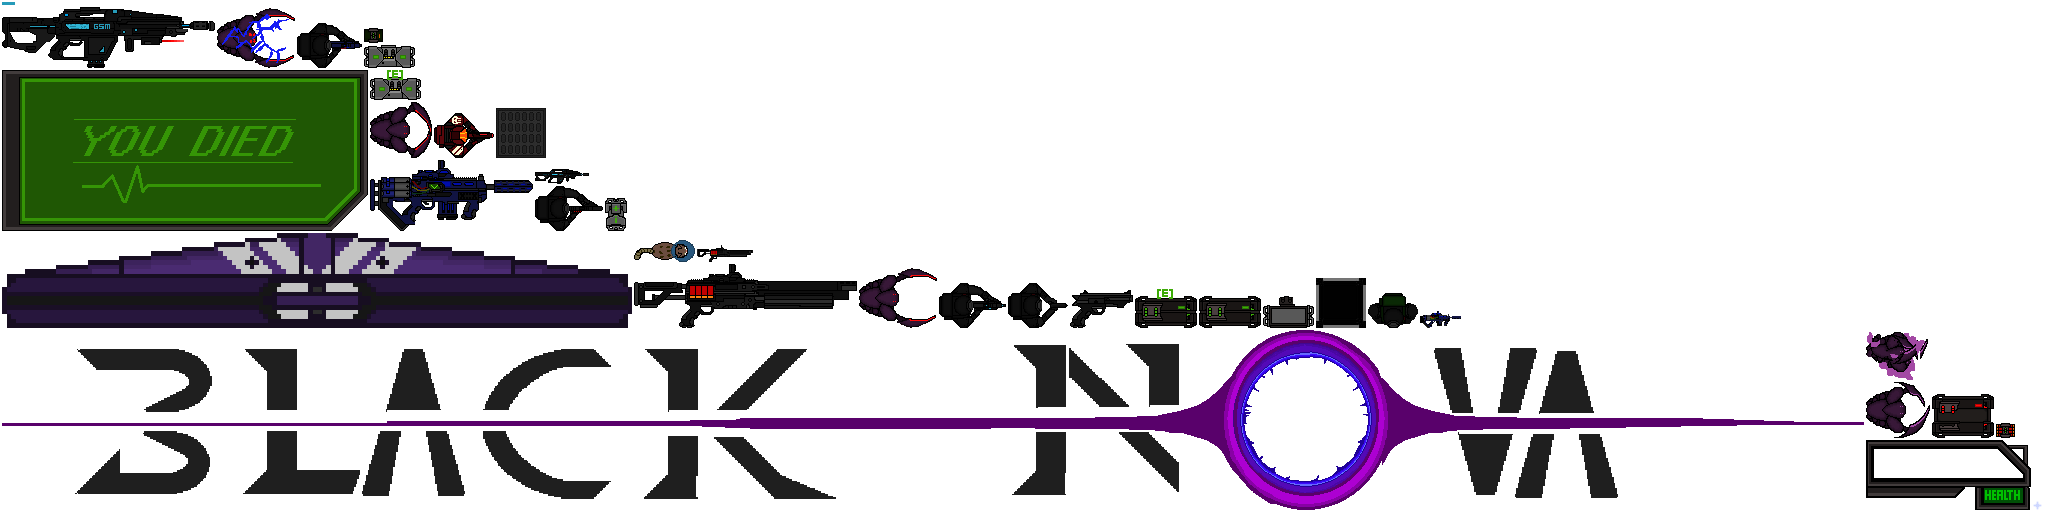
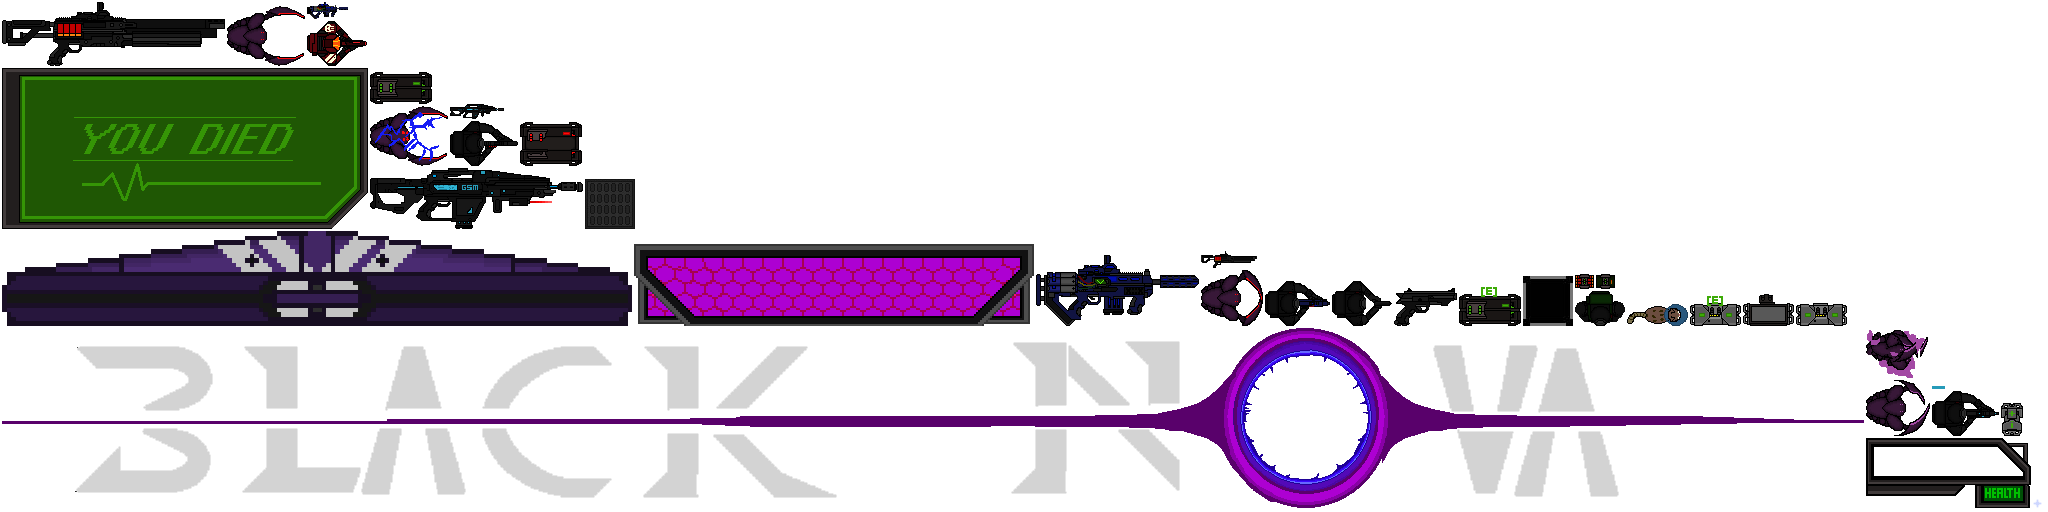
Cool menu now has custom font
Made a cool font and took little option boxes and got that working it looks pretty good if I do say so myself

Changed region(s): [[0.0, 0.4688, 1.0, 1.0], [0.0, 0.0, 0.3125, 0.5]]

diff --git a/core/src/com/ryanbuxton/blacknova/screens/MainMenu.java b/core/src/com/ryanbuxton/blacknova/screens/MainMenu.java
@@ -13,7 +13,7 @@ import com.ryanbuxton.blacknova.main.Main;
 public class MainMenu implements Screen{
 	private final Main game;
 	private OrthographicCamera cam;
-	private Sprite title, header, footer;
+	private Sprite title, header, footer, optionPlay, optionSettings, optionCredits;
 	private Star[] stars;
 	
 	public MainMenu(final Main game) {
@@ -25,11 +25,21 @@ public class MainMenu implements Screen{
 		Sprite s = game.atlas.createSprite("star");
 		footer = game.atlas.createSprite("option_footer");
 		header = game.atlas.createSprite("option_footer");
+		optionPlay = game.atlas.createSprite("menu_option");
+		optionSettings = game.atlas.createSprite("menu_option");
+		optionCredits = game.atlas.createSprite("menu_option");
 		
 		title.setPosition(0, Gdx.graphics.getHeight() - title.getHeight());
 		header.setPosition((Gdx.graphics.getWidth()/2) - (header.getWidth()/2), Gdx.graphics.getHeight() - title.getHeight() - header.getHeight());
+		
+		
+		optionPlay.setPosition((Gdx.graphics.getWidth()/2) - (optionPlay.getWidth()/2), header.getY() - (optionPlay.getHeight()));
+		optionSettings.setPosition((Gdx.graphics.getWidth()/2) - (optionSettings.getWidth()/2), header.getY() - (optionSettings.getHeight() * 3));
+		optionCredits.setPosition((Gdx.graphics.getWidth()/2) - (optionCredits.getWidth()/2), header.getY() - (optionCredits.getHeight() * 5));
+		
+		
 		footer.setRotation(180);
-		footer.setPosition((Gdx.graphics.getWidth()/2) - (header.getWidth()/2), footer.getHeight());
+		footer.setPosition((Gdx.graphics.getWidth()/2) - (header.getWidth()/2), header.getY() - (optionCredits.getHeight() * 5) - footer.getHeight());
 		
 		stars = new Star[25];
 		for(int i = 0; i < 25; i ++) {
@@ -52,6 +62,14 @@ public class MainMenu implements Screen{
 		header.draw(game.batch);
 		footer.draw(game.batch);
 		title.draw(game.batch);
+		optionPlay.draw(game.batch);
+		optionSettings.draw(game.batch);
+		optionCredits.draw(game.batch);
+		
+		game.titleFont.draw(game.batch, "PLAY", 0, optionPlay.getY() + 55, Gdx.graphics.getWidth(), 1, false);
+		game.titleFont.draw(game.batch, "SETTINGS", 0, optionSettings.getY() + 55, Gdx.graphics.getWidth(), 1, false);
+		game.titleFont.draw(game.batch, "CREDITS", 0, optionCredits.getY() + 55, Gdx.graphics.getWidth(), 1, false);
+		
 		game.testFont.draw(game.batch, "ART AND CONCEPT BY JOSEPH AHN\nCODE BY RYAN BUXTON (RYANBUXTON.COM)\nVERSION " + game.ver, 0, game.testFont.getCapHeight()*5);
 		game.batch.end();
 		

diff --git a/core/src/com/ryanbuxton/blacknova/main/Main.java b/core/src/com/ryanbuxton/blacknova/main/Main.java
@@ -3,24 +3,41 @@ package com.ryanbuxton.blacknova.main;
 import com.badlogic.gdx.ApplicationAdapter;
 import com.badlogic.gdx.Game;
 import com.badlogic.gdx.Gdx;
+import com.badlogic.gdx.graphics.Color;
 import com.badlogic.gdx.graphics.GL20;
 import com.badlogic.gdx.graphics.Texture;
 import com.badlogic.gdx.graphics.g2d.BitmapFont;
 import com.badlogic.gdx.graphics.g2d.Sprite;
 import com.badlogic.gdx.graphics.g2d.SpriteBatch;
 import com.badlogic.gdx.graphics.g2d.TextureAtlas;
+import com.badlogic.gdx.graphics.g2d.freetype.FreeTypeFontGenerator;
+import com.badlogic.gdx.graphics.g2d.freetype.FreeTypeFontGenerator.FreeTypeFontParameter;
 import com.ryanbuxton.blacknova.screens.MainMenu;
 
 public class Main extends Game {
 	public SpriteBatch batch;
 	public TextureAtlas atlas;
-	public BitmapFont testFont;
+	public BitmapFont testFont, titleFont;
 	public String ver = "0.0.1";
 
 	public void create() {
 		batch = new SpriteBatch();
 		atlas = new TextureAtlas("blacknova.atlas");
-		testFont = new BitmapFont();
+		
+		//fonts
+		FreeTypeFontGenerator gen = new FreeTypeFontGenerator(Gdx.files.internal("blacknova_font.ttf"));
+		FreeTypeFontParameter par = new FreeTypeFontParameter();
+		//testFont is a small font for debugging
+		par.size = 20;
+		testFont = gen.generateFont(par);
+		//titleFont is big for menu items
+		par.size = 40;
+		par.shadowOffsetX = 5;
+		par.shadowOffsetY = 5;
+		par.shadowColor = Color.BLACK;
+		titleFont = gen.generateFont(par);
+		
+		gen.dispose();
 		
 		//last
 		this.setScreen(new MainMenu(this));
